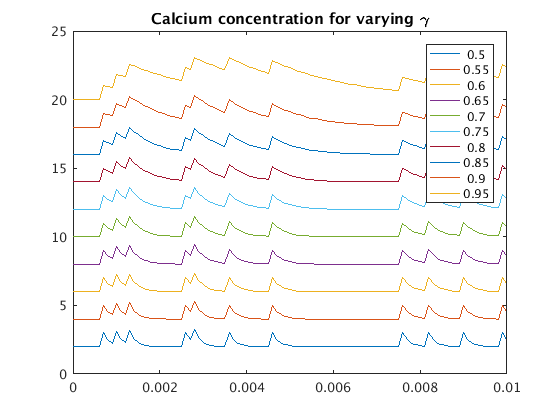
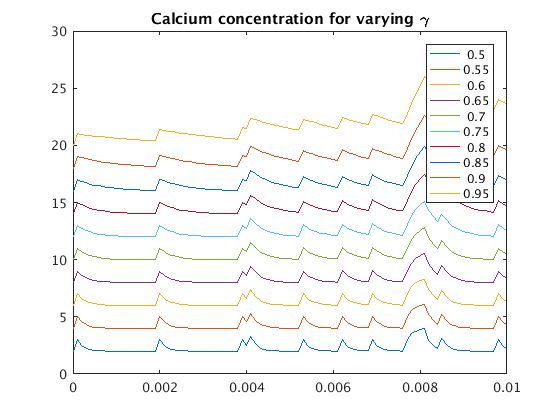
update AR tutorial

diff --git a/tutorial/html/ARmodel.html b/tutorial/html/ARmodel.html
@@ -66,7 +66,7 @@ table td { padding:7px 5px; text-align:left; vertical-align:top; border:1px soli
 
 
 
-  </style></head><body><div class="content"><h1>Autoregressive Model for Calcium Dynamics</h1><!--introduction--><p>An autoregressive process operates under the assumption that past states affect current states. An autoregressive process of order 1 means that each state is affected by the state immediately preceding it, order 2 means that each state is affected by the two states immediately prior, etc. An autoregressive process of order p (AR(p)) is defined as follows:</p><!--/introduction--><h2>Contents</h2><div><ul><li><a href="#3">Generate spikes from exponential distribution</a></li><li><a href="#4">Applying the AR model to Action Potentials</a></li></ul></div><p><img src="ARmodel_eq06790537459012590902.png" alt="$$X_t = c + \sum_{i=1}^p\gamma_iX_{t-i} + \epsilon_t$$"></p><p>where <img src="ARmodel_eq08422257486649890878.png" alt="$c$"> is a constant, <img src="ARmodel_eq10190599912419501465.png" alt="$\gamma_i$"> are the coefficients of the process and <img src="ARmodel_eq09284369226989828555.png" alt="$\epsilon_t$"> is white noise. In this tutorial, we will look at an AR process that incorporates spike data to generate a model of calcium dynamics. The goal is to get an intuitive understanding of how this particular calcium model works in order to understand its role in calcium data analysis.</p><h2>Generate spikes from exponential distribution<a name="3"></a></h2><pre class="codeinput">rate = 1000; <span class="comment">% spike rate (Hz)</span>
+  </style></head><body><div class="content"><h1>Autoregressive Model for Calcium Dynamics</h1><!--introduction--><!--/introduction--><h2>Contents</h2><div><ul><li><a href="#4">Generate spikes from exponential distribution</a></li><li><a href="#5">Applying the AR model to Action Potentials</a></li></ul></div><p>An autoregressive process operates under the assumption that past states affect current states. An autoregressive process of order 1 means that each state is affected by the state immediately preceding it, order 2 means that each state is affected by the two states immediately prior, etc. An autoregressive process of order p (AR(p)) is defined as follows:</p><p><img src="ARmodel_eq06790537459012590902.png" alt="$$X_t = c + \sum_{i=1}^p\gamma_iX_{t-i} + \epsilon_t$$"></p><p>where <img src="ARmodel_eq08422257486649890878.png" alt="$c$"> is a constant, <img src="ARmodel_eq10190599912419501465.png" alt="$\gamma_i$"> are the coefficients of the process and <img src="ARmodel_eq09284369226989828555.png" alt="$\epsilon_t$"> is white noise. In this tutorial, we will look at an AR process that incorporates spike data to generate a model of calcium dynamics. The goal is to get an intuitive understanding of how this particular calcium model works in order to understand its role in calcium data analysis.</p><h2>Generate spikes from exponential distribution<a name="4"></a></h2><pre class="codeinput">rate = 1000; <span class="comment">% spike rate (Hz)</span>
 dur = .01; <span class="comment">% duration of trial (s)</span>
 dt = 0.0001; <span class="comment">% time step (s)</span>
 T = (0:dt:dur);
@@ -79,7 +79,7 @@ spikes = zeros(dur/dt+1,1);
         spikes(t) = 1;
     <span class="keyword">end</span>
 <span class="keyword">end</span>
-</pre><h2>Applying the AR model to Action Potentials<a name="4"></a></h2><p>Before implementing the calculation, consider what each of the parameters in the model does. Look again at the AR model.</p><p><img src="ARmodel_eq06263262507588699212.png" alt="$c(t) = \sum_{j=1}^p\gamma_jc(t-j)+s(t)$"></p><p>Consider the following for <img src="ARmodel_eq12081968486337205601.png" alt="$p=1$">:</p><div><ul><li>What does the parameter <img src="ARmodel_eq15212781520413577972.png" alt="$\gamma_1$"> represent?</li><li>How do changes to <img src="ARmodel_eq15212781520413577972.png" alt="$\gamma_1$"> affect the calcium signal?</li><li>What are reasonable values for this parameter?</li></ul></div><p>Look at what happens when we vary <img src="ARmodel_eq15212781520413577972.png" alt="$\gamma_1$">:</p><pre class="codeinput">p = 1;
+</pre><h2>Applying the AR model to Action Potentials<a name="5"></a></h2><p>Before implementing the calculation, consider what each of the parameters in the model does. Look again at the AR model.</p><p><img src="ARmodel_eq06263262507588699212.png" alt="$c(t) = \sum_{j=1}^p\gamma_jc(t-j)+s(t)$"></p><p>Consider the following for <img src="ARmodel_eq12081968486337205601.png" alt="$p=1$">:</p><div><ul><li>What does the parameter <img src="ARmodel_eq15212781520413577972.png" alt="$\gamma_1$"> represent?</li><li>How do changes to <img src="ARmodel_eq15212781520413577972.png" alt="$\gamma_1$"> affect the calcium signal?</li><li>What are reasonable values for this parameter?</li></ul></div><p>Look at what happens when we vary <img src="ARmodel_eq15212781520413577972.png" alt="$\gamma_1$">:</p><pre class="codeinput">p = 1;
 Gamma = (.5:.05:.99);
 calcium = zeros(length(spikes),numel(Gamma));
 <span class="keyword">for</span> g = 1:numel(Gamma)
@@ -98,17 +98,16 @@ title(<span class="string">'Comparison of traces with high and low \gamma'</span
 </pre><img vspace="5" hspace="5" src="ARmodel_02.png" alt=""> <p>Let's do one more comparison: are the peaks in the same place?</p><pre class="codeinput">[~,peaklocs] = arrayfun(@(i) findpeaks(calcium(:,i)),[1;g],<span class="keyword">...</span>
     <span class="string">'uniformoutput'</span>,false);
 disp(cat(2,peaklocs{:}))
-</pre><pre class="codeoutput">     8     8
-    11    11
-    14    14
-    27    27
-    29    29
-    37    37
-    47    47
-    77    77
-    83    83
-    91    91
-   100   100
+</pre><pre class="codeoutput">     2     2
+    21    21
+    40    40
+    42    42
+    54    54
+    63    63
+    70    70
+    82    82
+    86    86
+    99    99
 
 </pre><p>Great! Looks like yes! Now, let's look at what happens when <img src="ARmodel_eq03564621074447017616.png" alt="$p=2$">. We will start by holding <img src="ARmodel_eq15212781520413577972.png" alt="$\gamma_1$"> constant and varying <img src="ARmodel_eq02298748245043383986.png" alt="$\gamma_2$">.</p><pre class="codeinput">p = 2;
 gamma1 = 0.5;
@@ -149,6 +148,7 @@ title(<span class="string">'Comparison of traces with high and low \gamma_1'</sp
 </pre><img vspace="5" hspace="5" src="ARmodel_05.png" alt=""> <img vspace="5" hspace="5" src="ARmodel_06.png" alt=""> <p>Look at what you see and think about how different values of the AR coefficients change the behavior of the calcium signal.</p><p class="footer"><br><a href="http://www.mathworks.com/products/matlab/">Published with MATLAB&reg; R2016a</a><br></p></div><!--
 ##### SOURCE BEGIN #####
 %% Autoregressive Model for Calcium Dynamics
+%%
 % An autoregressive process operates under the assumption that past
 % states
 % affect current states. An autoregressive process of order 1 means that

diff --git a/tutorial/ARmodel.m b/tutorial/ARmodel.m
@@ -1,4 +1,5 @@
 %% Autoregressive Model for Calcium Dynamics
+%%
 % An autoregressive process operates under the assumption that past
 % states
 % affect current states. An autoregressive process of order 1 means that
